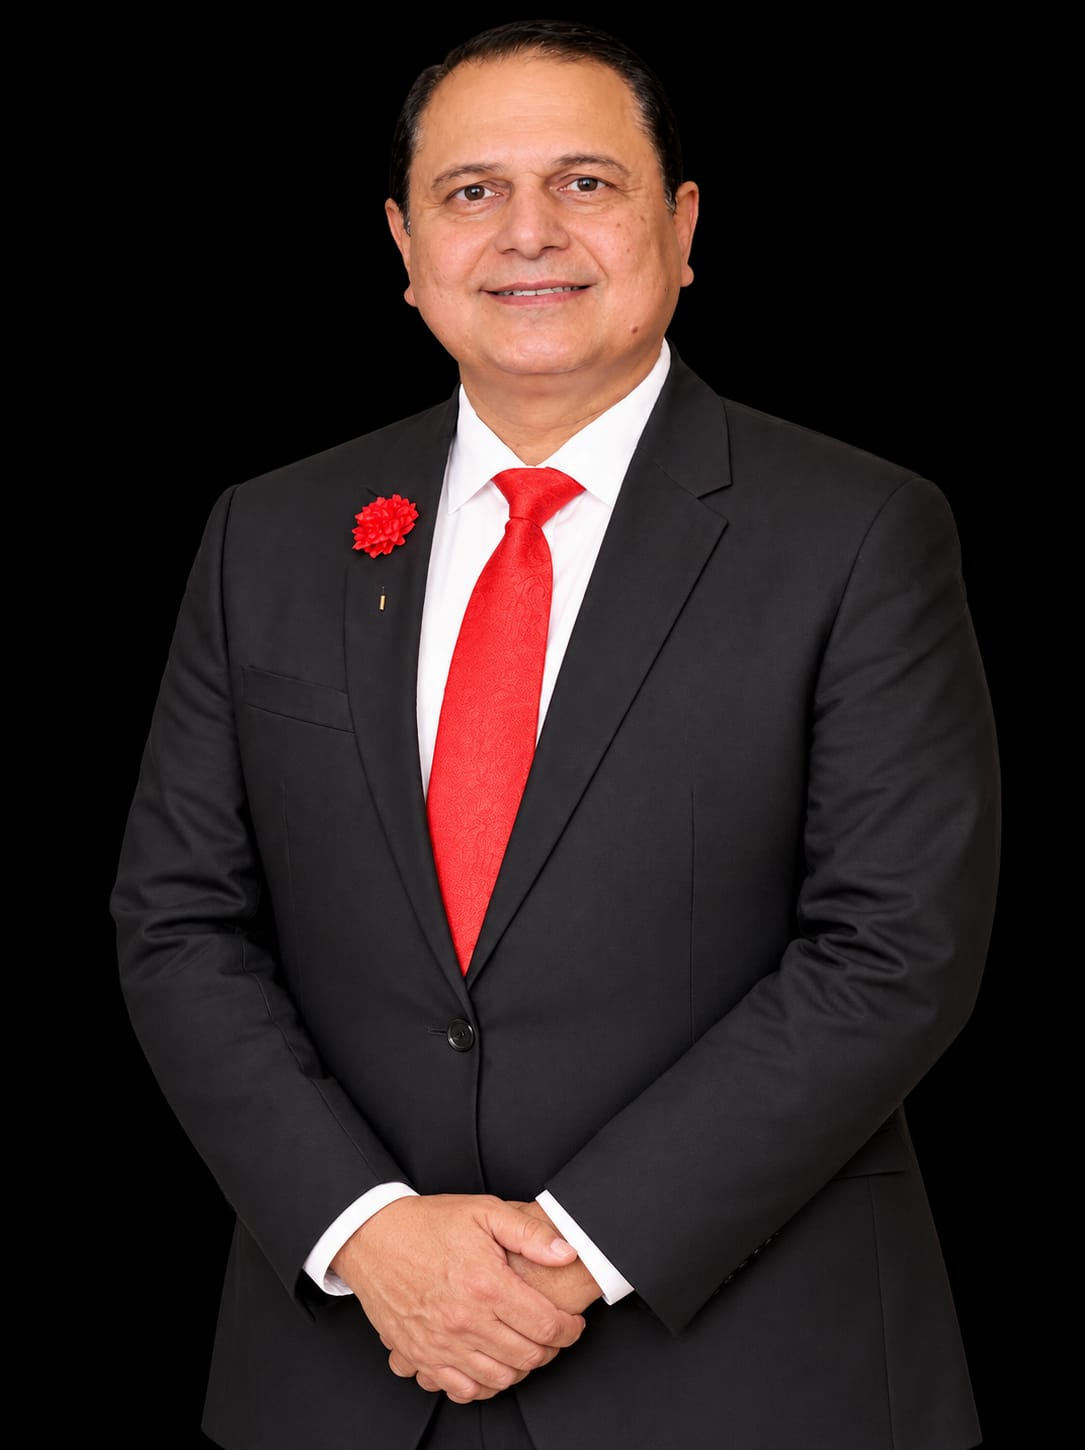
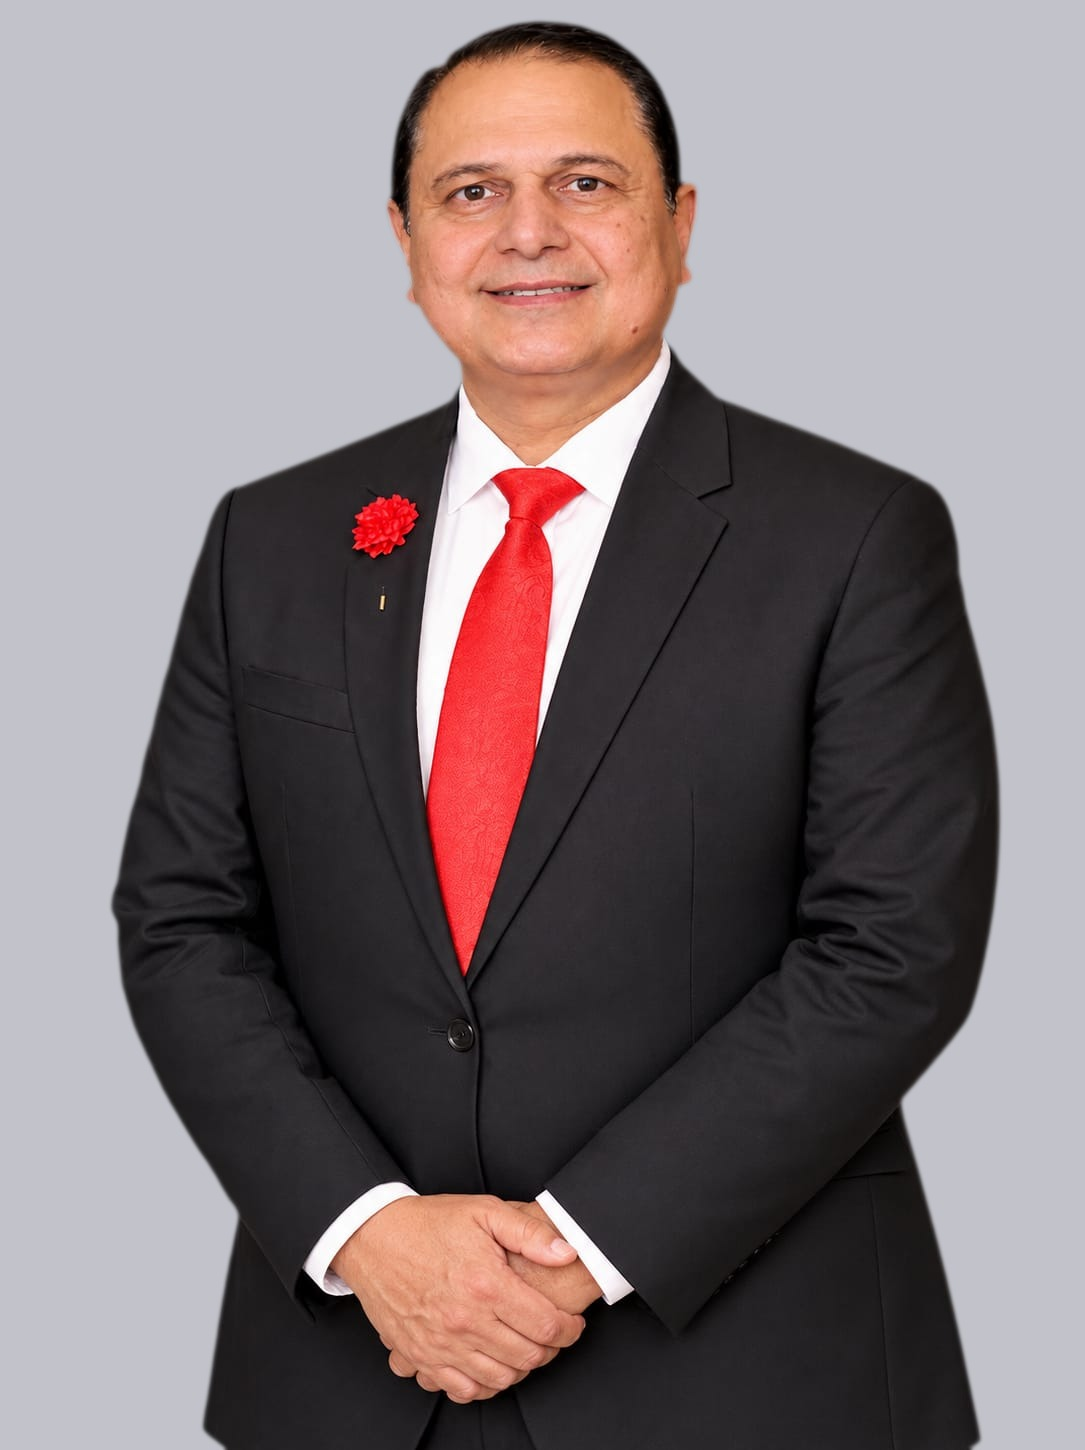
whatsapp shared changes

diff --git a/power-electronics.html b/power-electronics.html
@@ -39,7 +39,7 @@
             <div class="detail-stats detail-stats--four">
               <div class="detail-stat"><strong>1</strong><span>R&amp;D Centre</span></div>
               <div class="detail-stat"><strong>2</strong><span>Manufacturing Facilities</span></div>
-              <div class="detail-stat"><strong>2.26 Million</strong><span>Units / annum</span></div>
+              <div class="detail-stat"><strong>2.2 Million</strong><span>Units / annum</span></div>
               <div class="detail-stat"><strong>100%*</strong><span>Backward Integration</span></div>
             </div>
             <h3 class="product-title">Products Manufactured</h3>
@@ -65,10 +65,12 @@
           <p>Manufactured to internationally recognised standards for quality, safety and environmental responsibility.</p>
           <div class="cert-grid">
             <div class="cert-card"><span class="cert-icon"><img src="/images/tick.svg" alt="" /></span>ISO 9001:2015</div>
+            <!--
             <div class="cert-card"><span class="cert-icon"><img src="/images/tick.svg" alt="" /></span>ISO 14001:2015</div>
             <div class="cert-card"><span class="cert-icon"><img src="/images/tick.svg" alt="" /></span>ISO 45001:2018</div>
             <div class="cert-card"><span class="cert-icon"><img src="/images/tick.svg" alt="" /></span>BIS Certified</div>
             <div class="cert-card"><span class="cert-icon"><img src="/images/tick.svg" alt="" /></span>CE Marked</div>
+            -->
           </div>
         </section>
 

diff --git a/css/about.css b/css/about.css
@@ -2965,27 +2965,21 @@ z-index: 1;
   }
 }
 
-/* The supplied Rajesh Jindal portrait has tighter headroom and a taller crop. */
+/* Match the replacement portrait's light backdrop and keep the face in frame. */
 .leadership-team-page .profile-card--rajesh > img {
-  background: #000;
+  background: #c4c4cc;
   object-position: center top;
-  padding-top: 28px;
+  padding-top: 16px;
 }
 
 .director-dialog[data-director-dialog="rajesh"] .director-dialog__portrait {
-  background: #000;
+  background: #c4c4cc;
 }
 
 .director-dialog[data-director-dialog="rajesh"] .director-dialog__portrait img {
   object-fit: cover;
   object-position: center top;
-  padding-top: 28px;
-}
-
-@media (max-width: 760px) {
-  .director-dialog[data-director-dialog="rajesh"] .director-dialog__portrait img {
-    padding-top: 16px;
-  }
+  padding-top: 16px;
 }
 
 .director-dialog__biography { font-size: 15px; line-height: 1.75; }

diff --git a/solar-panels.html b/solar-panels.html
@@ -70,10 +70,12 @@
           <p>Manufactured to internationally recognized standards for quality, safety and environmental responsibility.</p>
           <div class="cert-grid">
             <div class="cert-card"><span class="cert-icon"><img src="/images/tick.svg" alt="" /></span>ISO 9001:2015</div>
+            <!--
             <div class="cert-card"><span class="cert-icon"><img src="/images/tick.svg" alt="" /></span>ISO 14001:2015</div>
             <div class="cert-card"><span class="cert-icon"><img src="/images/tick.svg" alt="" /></span>IEC 61215</div>
             <div class="cert-card"><span class="cert-icon"><img src="/images/tick.svg" alt="" /></span>IEC 61730</div>
             <div class="cert-card"><span class="cert-icon"><img src="/images/tick.svg" alt="" /></span>BIS / ALMM Listed</div>
+            -->
           </div>
         </section>
 

diff --git a/conventional-tubular-batteries.html b/conventional-tubular-batteries.html
@@ -61,9 +61,12 @@
           <div class="cert-grid">
             <div class="cert-card"><span class="cert-icon"><img src="/images/tick.svg" alt="" /></span>ISO 9001:2015</div>
             <div class="cert-card"><span class="cert-icon"><img src="/images/tick.svg" alt="" /></span>ISO 14001:2015</div>
+            <div class="cert-card"><span class="cert-icon"><img src="/images/tick.svg" alt="" /></span>ISO 45001:2018</div>
+            <!--
             <div class="cert-card"><span class="cert-icon"><img src="/images/tick.svg" alt="" /></span>IEC 61215</div>
             <div class="cert-card"><span class="cert-icon"><img src="/images/tick.svg" alt="" /></span>IEC 61730</div>
             <div class="cert-card"><span class="cert-icon"><img src="/images/tick.svg" alt="" /></span>BIS / ALMM Listed</div>
+            -->
           </div>
         </section>
 

diff --git a/lithium-batteries.html b/lithium-batteries.html
@@ -66,10 +66,12 @@
           <p>Manufactured to internationally recognised standards for quality, safety and environmental responsibility.</p>
           <div class="cert-grid">
             <div class="cert-card"><span class="cert-icon"><img src="/images/tick.svg" alt="" /></span>ISO 9001:2015</div>
+            <!--
             <div class="cert-card"><span class="cert-icon"><img src="/images/tick.svg" alt="" /></span>ISO 14001:2015</div>
             <div class="cert-card"><span class="cert-icon"><img src="/images/tick.svg" alt="" /></span>ISO 45001:2018</div>
             <div class="cert-card"><span class="cert-icon"><img src="/images/tick.svg" alt="" /></span>AIS-156</div>
             <div class="cert-card"><span class="cert-icon"><img src="/images/tick.svg" alt="" /></span>BIS Certified</div>
+            -->
           </div>
         </section>
 
